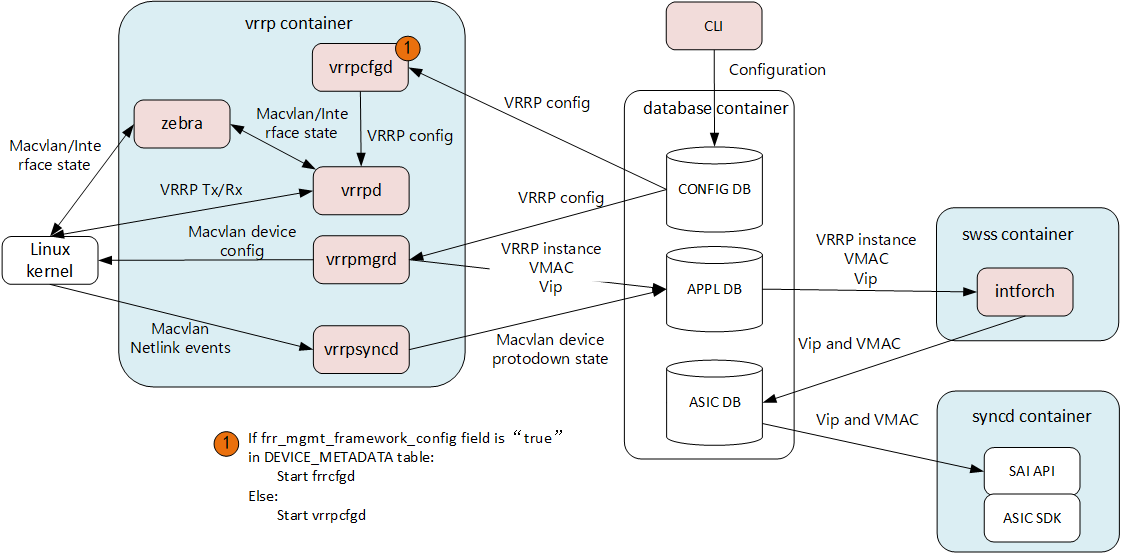
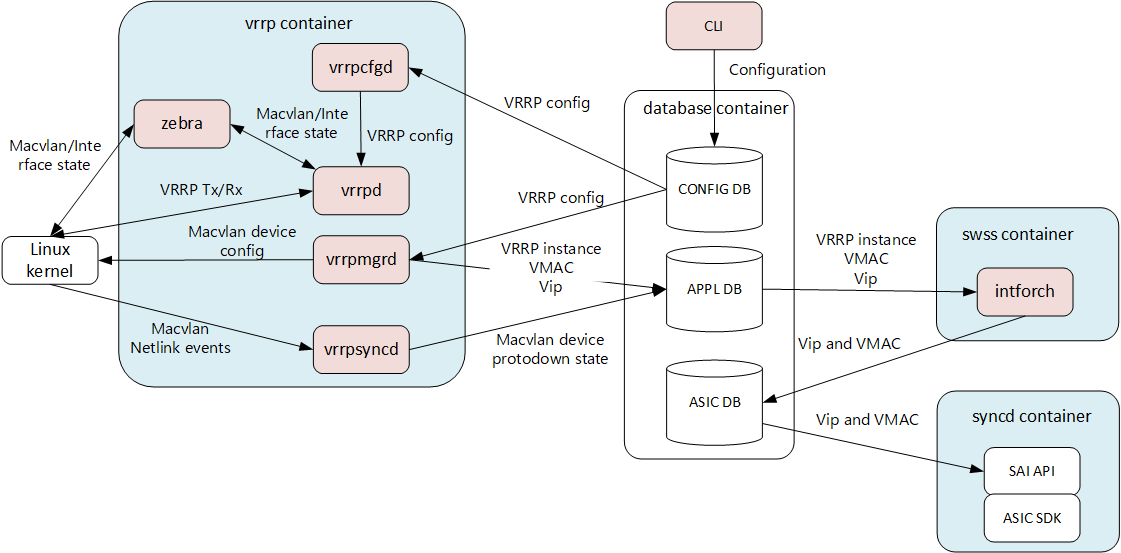
update VRRP Architecture and copp Configurations

diff --git a/doc/vrrp/VRRP_Adaptation_HLD.md b/doc/vrrp/VRRP_Adaptation_HLD.md
@@ -189,8 +189,6 @@ Below diagram illuminates the interactions between relevant components and the D
 
 Diagram 1. VRRP components.
 
-Significantly, This feature extends functionality implemented in [SONiC FRR-BGP Extended Unified Configuration Management Framework](https://github.com/sonic-net/SONiC/blob/master/doc/mgmt/SONiC_Design_Doc_Unified_FRR_Mgmt_Interface.md), Redis DB events will trigger frrcfgd when the field frr_mgmt_framework_config set to "true" in the DEVICE_METADATA table, otherwise will trigger vrrpcfgd, and then frrcfgd or vrrpcfgd will configure FRR-VRRP using FRR CLI commands.
-
 ### High-Level Design
 
 #### Operating environment
@@ -207,7 +205,7 @@ Since support for placing macvlan devices into protodown was not added to Linux 
 
 ##### VRRP container
 
-Add a new VRRP container to host VRRP protocol operations.
+Add a new VRRP container to host VRRP protocol operations. We control whether the VRRP feature is enabled through the FEATURE table in Config DB, which is disabled by default.
 
 vrrpcfgd: 
   - Subscribes to CONFIG_DB tables, parsing configurations and passes to vrrpd by using FRR CLI commands. 
@@ -232,7 +230,6 @@ vrrpsyncd:
     - Listen for kernel Macvlan device state change events
     - Update the kernel Macvlan device state to the APPL DB.
 
-
 ##### SWSS container
 
 intforch: 
@@ -240,7 +237,7 @@ intforch:
 
 #### CoPP Configurations
 
-CoPP will be extended as follows for trapping VRRPs:
+CoPP will be extended as follows for trapping VRRPs. Whether to install it depends on the FEATURE|vrrp table in Config DB. If the VRRP state is enabled, it will be installed; otherwise, it will not be installed.
 ```
   "trap.group.vrrp": {
     "cir":"300",
@@ -256,10 +253,10 @@ CoPP will be extended as follows for trapping VRRPs:
   ...
   "vrrp": {
     "trap_ids": "vrrp", "vrrpv6",
-    "trap_group": "trap.group.vrrp",
-    "always_enabled": "true"
+    "trap_group": "trap.group.vrrp"
   },
 ```
+
 #### DB Changes
 
 ##### CONFIG_DB changes
